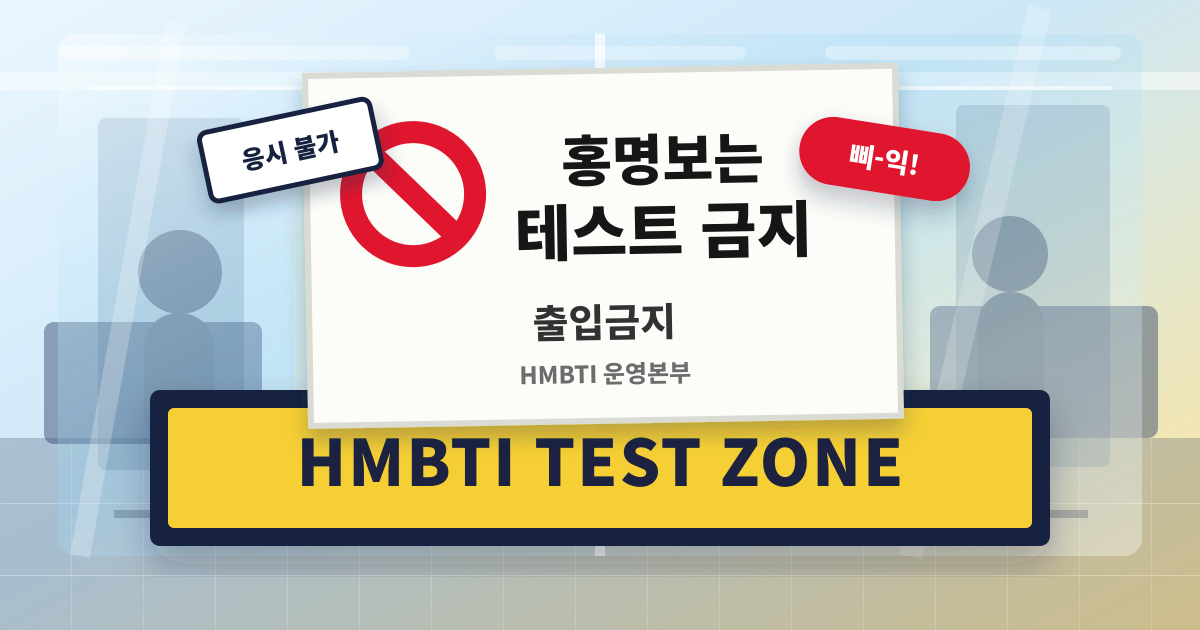
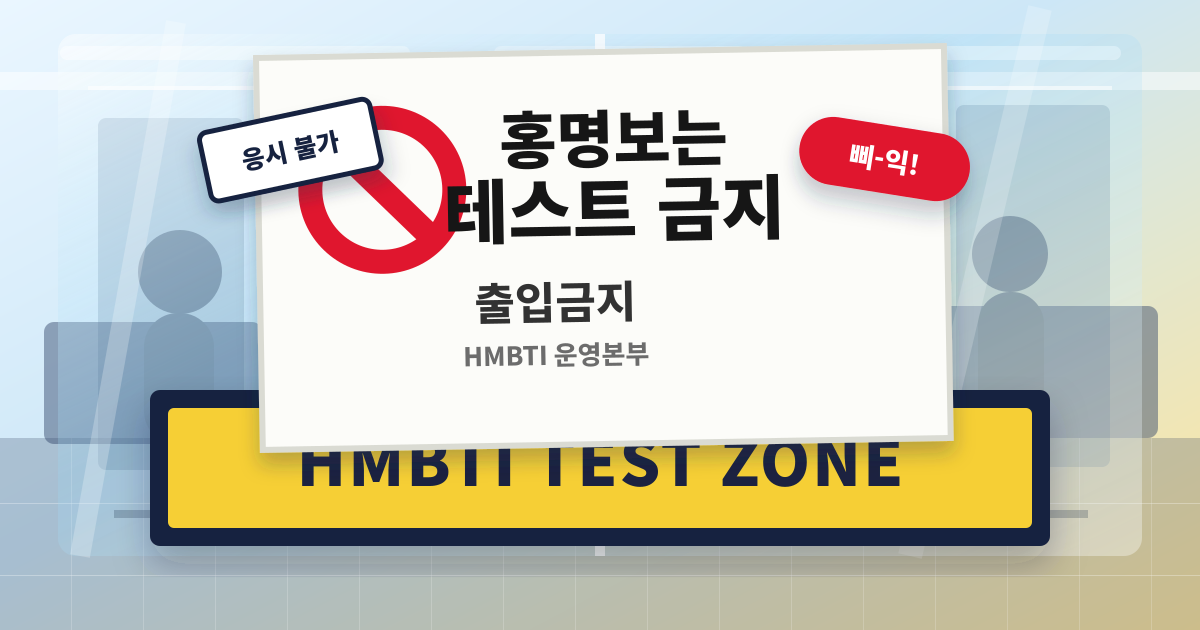
홍명보 테스트 문구 및 썸네일 수정

Changed region(s): [[0.185, 0.1508, 0.8017, 0.754], [0.185, 0.0603, 0.8017, 0.2111], [0.37, 0.4524, 0.5858, 0.6333]]

diff --git a/src/app/hmbti/page.tsx b/src/app/hmbti/page.tsx
@@ -14,10 +14,23 @@ export const metadata: Metadata = {
     type: 'website',
     images: [
       {
-        url: '/images/hmbti/hmbti-ban-banner.png',
+        url: '/images/hmbti/hmbti-share-thumb.png',
         width: 1200,
         height: 630,
-        alt: '홍명보는 테스트 금지 출입금지 표지판 밈 배너',
+        alt: '국대 감독직 뺏으러 가기 HMBTI 공유 썸네일',
+      },
+    ],
+  },
+  twitter: {
+    card: 'summary_large_image',
+    title: '홍명보 지수 테스트(HMBTI)',
+    description: '축구 밈과 리더십 스타일을 바탕으로 만든 유희용 HMBTI 테스트입니다.',
+    images: [
+      {
+        url: '/images/hmbti/hmbti-share-thumb.png',
+        width: 1200,
+        height: 630,
+        alt: '국대 감독직 뺏으러 가기 HMBTI 공유 썸네일',
       },
     ],
   },

diff --git a/src/components/HmbtiTest.tsx b/src/components/HmbtiTest.tsx
@@ -288,7 +288,7 @@ export default function HmbtiTest() {
                 <span className="hmbti-title-red">홍명보 지수</span>
                 <h1>밈 테스트</h1>
               </div>
-              <p className="hmbti-subtitle">내 안의 감독 모드, 지금 킥오프합니다</p>
+              <p className="hmbti-subtitle">방구석 감독 자격증 발급받기</p>
 
               <img
                 className="hmbti-main-banner"
@@ -298,7 +298,7 @@ export default function HmbtiTest() {
 
               <button type="button" className="hmbti-main-button" onClick={startTest}>
                 시작하기
-                <span>지금 바로 감독 성향 체크</span>
+                <span>국대 감독직 뺏으러 가기</span>
               </button>
             </div>
           )}